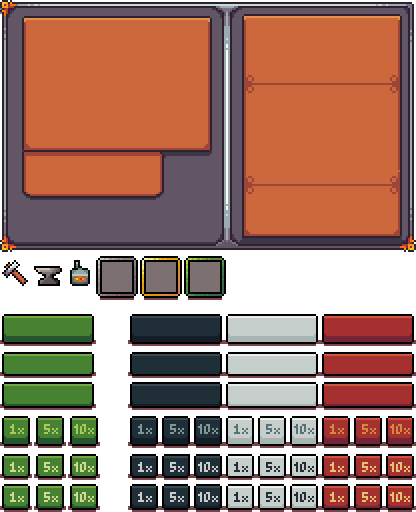
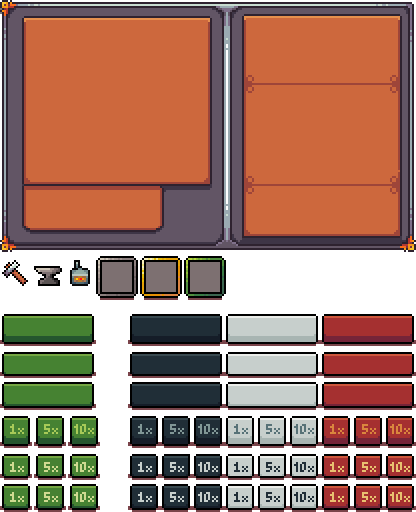
style(client): crafting ui

Changed region(s): [[0.0312, 0.2812, 0.5312, 0.4688]]

diff --git a/packages/client/scss/game/impl/_crafting.scss b/packages/client/scss/game/impl/_crafting.scss
@@ -81,7 +81,7 @@
             top: 24px * $i;
             left: 30px * $i;
             width: 174px * $i;
-            height: 120px * $i;
+            height: 154px * $i;
         }
 
         #crafting-requirements {
@@ -140,7 +140,7 @@
         .crafting-option {
             width: 42px * $i;
             height: 44px * $i;
-            margin-bottom: 16px * $i;
+            margin-bottom: 8px * $i;
 
             background: url('/img/interface/crafting.png') -96px * $i -256px * $i;
             background-size: calc(width('crafting.png') * $i);
@@ -169,7 +169,7 @@
         }
 
         .crafting-buttons {
-            bottom: 60px * $i;
+            bottom: 28px * $i;
             left: 32px * $i;
             gap: 12px * $i;
         }
